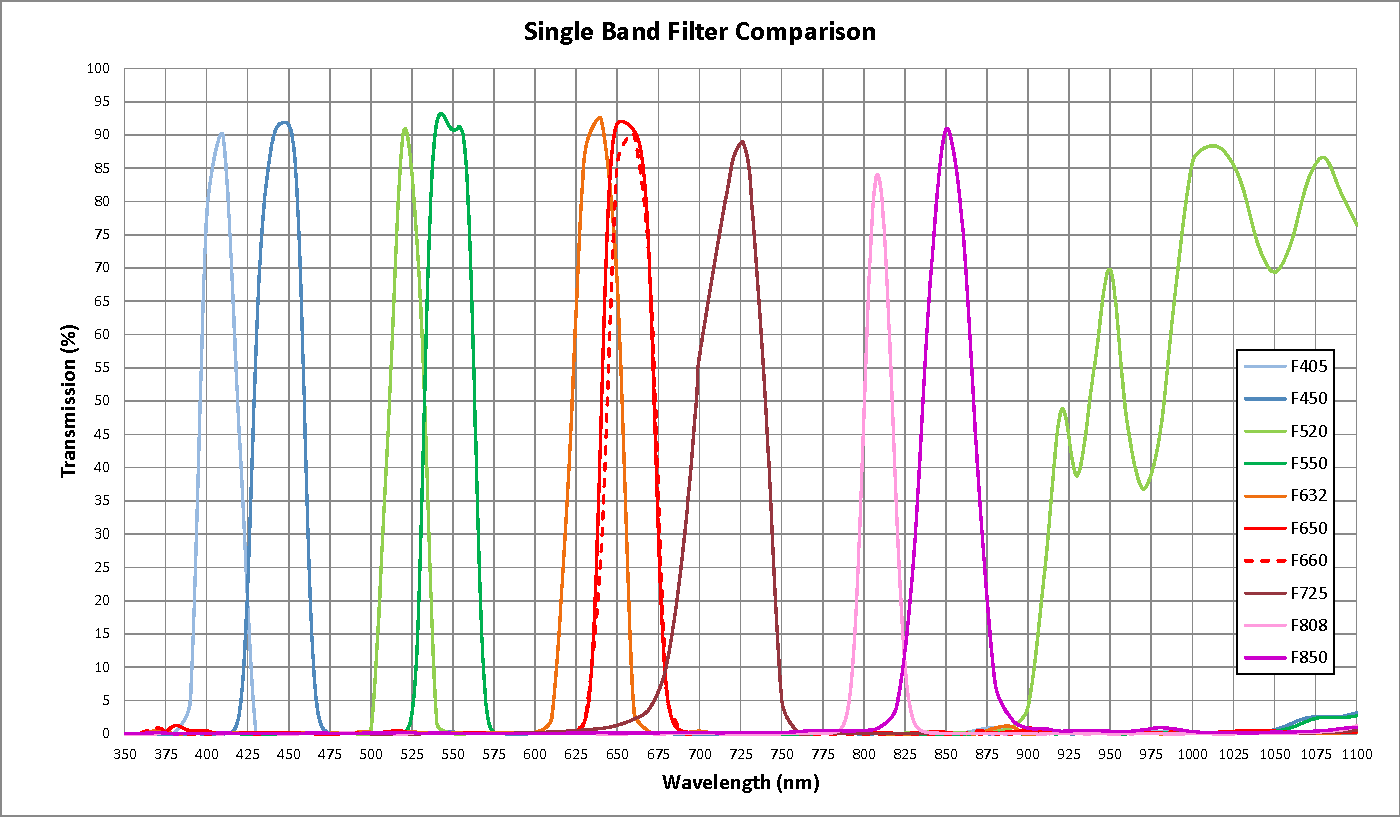
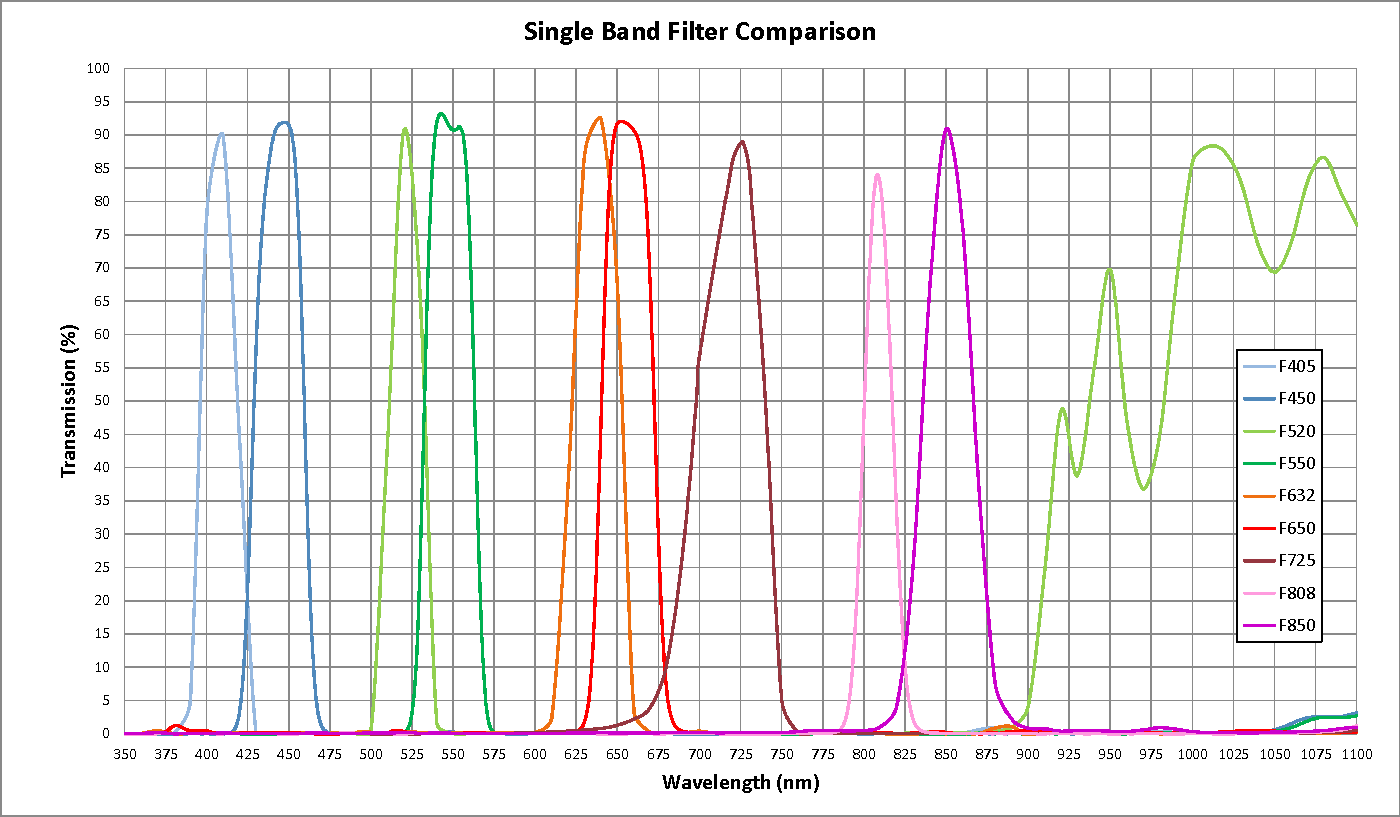
Updates kernel-filters.md
Auto commit by GitBook Editor

Changed region(s): [[0.8907, 0.4284, 0.9521, 0.8262], [0.43, 0.1836, 0.4607, 0.2142]]

diff --git a/kernel-filters.md b/kernel-filters.md
@@ -20,7 +20,6 @@ Filter Glass Surface Quality: 40/20
 | F550              | MONO                    | 550nm          | 535-558nm          | [VIEW](#f550)           | Green vegetative indices |
 | F632              | MONO                    | 632nm          | 625-640nm          | [VIEW](#f632)           | Red vegetative indices |
 | F650              | MONO                    | 650nm          | 643-665nm          | [VIEW](#f650)           | Red vegetative indices |
-| F660              | MONO                    | 660nm          | 650-665nm          | [VIEW](#f660)           | Red vegetative indices |
 | F725              | MONO                    | 725nm          | 717-732nm          | [VIEW](#f725)           | Red-edge: Deeper canopy penetration, earlier detection of reduction in photosynthesis |
 | F808              | MONO                    | 808nm          | 798-820nm          | [VIEW](#f808)           | NIR vegetative indices |
 | F850              | MONO                    | 850nm          | 845-860nm          | [VIEW](#f850)           | NIR vegetative indices |
@@ -67,8 +66,6 @@ Surface Quality: 40/20
 ![](/assets/f632.png)
 #### F650
 ![](/assets/f650.png)
-#### F660
-![](/assets/f660.png)
 #### F725
 ![](/assets/f720.png)
 #### F808
